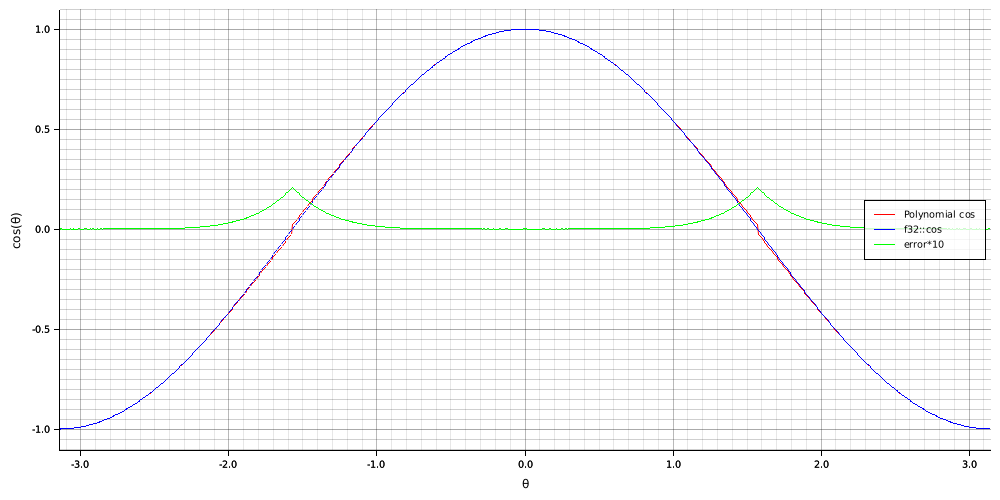
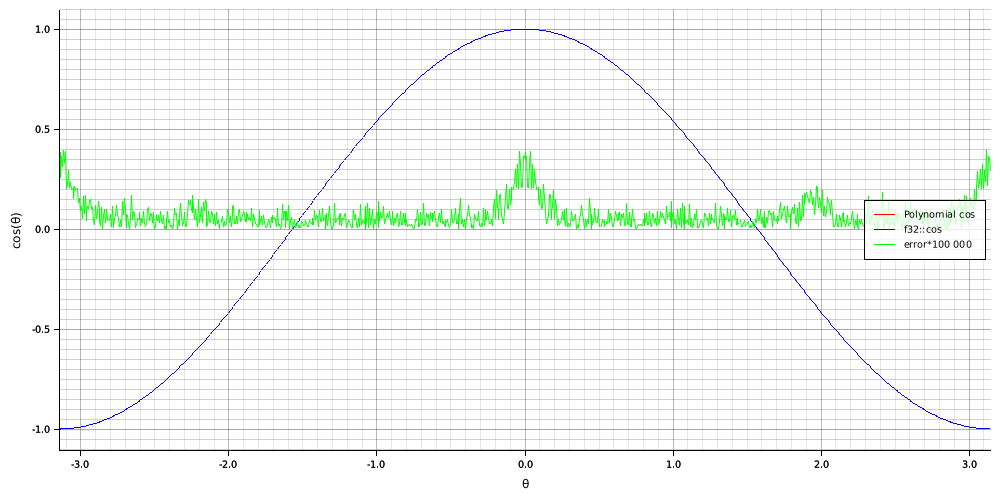
Added sine error comparison with the sine implementation in the cordic crate.

Changed region(s): [[0.062, 0.3, 0.992, 0.51]]

diff --git a/src/lib.rs b/src/lib.rs
@@ -122,6 +122,10 @@ pub fn sign<T>( x:T ) -> T
 /// The Difference between the two is plotted as the error.
 /// 
 /// ![Alt version](https://github.com/ErikBuer/Fixed-Trigonometry/blob/main/figures/polynomial_sine_comparison.png?raw=true)
+/// 
+/// The error of the method is compared to the sine implementation in the cordic crate.
+/// 
+/// ![Alt version](https://github.com/ErikBuer/Fixed-Trigonometry/blob/main/figures/cordic_poly_sine_error_comparison.png?raw=true)
 pub fn sin<T>( x: T ) -> T
     where T: fixed::traits::FixedSigned
 {
@@ -149,16 +153,15 @@ pub fn sin<T>( x: T ) -> T
     return sinx;
 }
 
-
-/// Non-corrected polynomial cos funciton.
+/// Calculate cosine using a Taylor approximation of `cos(x)`.
 /// 
-/// `cos(x) = 1 -( x^2/2 )+( x^4/24 )-( x^6/720 )+( x^8/40320 )`
+/// Cos is calculated by adding a phase shift to x and running it through the polynomial sine method.
 /// 
 /// ## Argument
 /// 
 /// * `x` - The value to apply the operation to.
 /// 
-/// `x` must be wrapped to the -π/2=<x<π/2 range.
+/// `x` is wrapped to the -π=<x<π range in the function.
 /// 
 /// ## Example
 /// 
@@ -168,7 +171,7 @@ pub fn sin<T>( x: T ) -> T
 /// 
 /// let mut x = FixedI32::<U18>::from_num(0);
 /// let mut y = cos(x);
-/// assert_eq!{ y.to_num::<f32>(), 1.0 };
+/// assert_eq!{ y.to_num::<f32>(), 1.0000038 };
 /// 
 /// x = FixedI32::<U18>::from_num(3.1415/2.0);
 /// y = cos(x);
@@ -182,70 +185,15 @@ pub fn sin<T>( x: T ) -> T
 /// 
 /// ![Alt version](https://github.com/ErikBuer/Fixed-Trigonometry/blob/main/figures/polynomial_cosine_comparison.png?raw=true)
 /// 
-fn cos_poly<T>(x:T) -> T
-    where T: fixed::traits::FixedSigned
-{
-    let mut cosx = <T>::from_num(1);
-    cosx -= powi(x,2) >> 1;
-    cosx += (powi(x,4)/<T>::from_num(6))   >> 2;
-    cosx -= (powi(x,6)/<T>::from_num(45))  >> 16;
-    cosx += (powi(x,8)/<T>::from_num(315)) >> 7;
-    return cosx;
-}
-
-/// Calculate cosine using a Taylor approximation of `cos(x)`.
-/// 
-/// Cos is calculated using the following polynomial:
-/// 
-/// `cos(x) = 1 -( x^2/2 )+( x^4/24 )-( x^6/720 )+( x^8/40320 )`
-/// 
-/// ## Argument
-/// 
-/// * `x` - The value to apply the operation to.
-/// 
-/// `x` must be wrapped to the -π=<x<π range.
-/// 
-/// ## Example
-/// 
-/// ```
-/// use fixed_trigonometry::*;
-/// use fixed::{types::extra::U18, FixedI32};
-/// 
-/// let mut x = FixedI32::<U18>::from_num(0);
-/// let mut y = cos(x);
-/// assert_eq!{ y.to_num::<f32>(), 1.0 };
-/// 
-/// x = FixedI32::<U18>::from_num(3.1415/2.0);
-/// y = cos(x);
-/// assert_eq!{ y.to_num::<f32>(), 0.020923615 };
-/// ``` 
 pub fn cos<T>( x: T ) -> T
     where T: fixed::traits::FixedSigned
 {
-    let pi_half:T = <T>::from_num(fixed::consts::PI/2);
+    // shift to enable use of more accurate sinepolynomial method.
+    let pi_half = <T>::from_num(fixed::consts::PI/2);
 
-    let mut x_: T = x;
-    let cosx:T;
-
-    // Ensure that the angle is within the accurate range of the tailor series. 
-    if x < -pi_half
-    {   
-        let delta = x+pi_half;
-        x_ = -pi_half+delta.abs();
-        cosx = -cos_poly(x_);
-
-    }
-    else if pi_half < x
-    {
-        let delta = x-pi_half;
-        x_ = pi_half-delta.abs();
-        cosx = -cos_poly(x_);
-    }
-    else
-    {
-        cosx = cos_poly(x_);
-    }
-    return cosx;
+    let mut x_shifted = x+pi_half;
+    x_shifted = wrap_phase(x_shifted);
+    return sin(x_shifted);
 }
 
 /// Wrapps θ to the -π=<x<π range.
@@ -274,11 +222,11 @@ pub fn wrap_phase<T>( phi: T ) -> T
     
     while temp_scalar < -pi
     {
-        temp_scalar = temp_scalar+(tau);
+        temp_scalar = temp_scalar + tau;
     }
     while pi <= temp_scalar
     {
-        temp_scalar = temp_scalar-(tau);
+        temp_scalar = temp_scalar - tau;
     }
     return temp_scalar;
 }

diff --git a/tests/sin_comparison.rs b/tests/sin_comparison.rs
@@ -68,3 +68,62 @@ fn compare_polynomial_sine() -> Result<(), Box<dyn std::error::Error>>
 
     Ok(())
 }
+
+
+/// Plots comparison between Errors of the polynomial and cordic sin implementation.
+#[test]
+fn poly_vs_cordic_error() -> Result<(), Box<dyn std::error::Error>> 
+{
+    use cordic;
+    use fixed_trigonometry::*;
+
+    use fixed::FixedI32 as F;
+    use fixed::types::extra::U20 as U;
+    use std::f32::consts::PI as PI;
+
+    let root = BitMapBackend::new("figures/cordic_poly_sine_error_comparison.png", (1000, 500)).into_drawing_area();
+    root.fill(&WHITE)?;
+    let mut chart = ChartBuilder::on(&root)
+        //.caption("title", ("sans-serif", 25).into_font())
+        .margin(10)
+        .x_label_area_size(40)
+        .y_label_area_size(100)
+        .build_cartesian_2d( -PI..PI, 0f32..0.00001f32 )?;
+
+    chart
+        .configure_mesh()
+        .disable_x_mesh()
+        .bold_line_style(&WHITE.mix(0.3))
+        .y_desc("Error(θ)")
+        .x_desc("θ")
+        .axis_desc_style(("sans-serif", 15))
+        .draw()?;
+
+    chart.configure_mesh().draw()?;
+
+    // Draws a sinle line
+    chart
+        .draw_series(LineSeries::new(
+            (-500..=500).map(|x| x as f32 *PI / 500.0).map(|x| (x, f32::abs(x.sin()-sin( F::<U>::from_num(x) ).to_num::<f32>()) )),
+            &BLUE,
+        ))?
+        .label("fixed_trigonometry::sin error")
+        .legend(|(x, y)| PathElement::new(vec![(x, y), (x + 20, y)], &BLUE));
+    
+    // Draws a sinle line
+    chart
+        .draw_series(LineSeries::new(
+            (-500..=500).map(|x| x as f32 *PI / 500.0).map(|x| (x, f32::abs(x.sin()-cordic::sin( F::<U>::from_num(x) ).to_num::<f32>()) )),
+            &RED,
+        ))?
+        .label("cordic::sin error")
+        .legend(|(x, y)| PathElement::new(vec![(x, y), (x + 20, y)], &RED));
+
+    chart
+        .configure_series_labels()
+        .background_style(&WHITE.mix(0.8))
+        .border_style(&BLACK)
+        .draw()?;
+
+    Ok(())
+}

diff --git a/tests/cos_comparison.rs b/tests/cos_comparison.rs
@@ -54,10 +54,10 @@ fn compare_polynomial_sine() -> Result<(), Box<dyn std::error::Error>>
     // Draws a sinle line
     chart
         .draw_series(LineSeries::new(
-            (-500..=500).map(|x| x as f32 *PI / 500.0).map(|x| (x, 10.0*f32::abs(x.cos()-cos( F::<U>::from_num(x) ).to_num::<f32>()) )),
+            (-500..=500).map(|x| x as f32 *PI / 500.0).map(|x| (x, 100000.0*f32::abs(x.cos()-cos( F::<U>::from_num(x) ).to_num::<f32>()) )),
             &GREEN,
         ))?
-        .label("error*10")
+        .label("error*100 000")
         .legend(|(x, y)| PathElement::new(vec![(x, y), (x + 20, y)], &GREEN));
 
     chart
